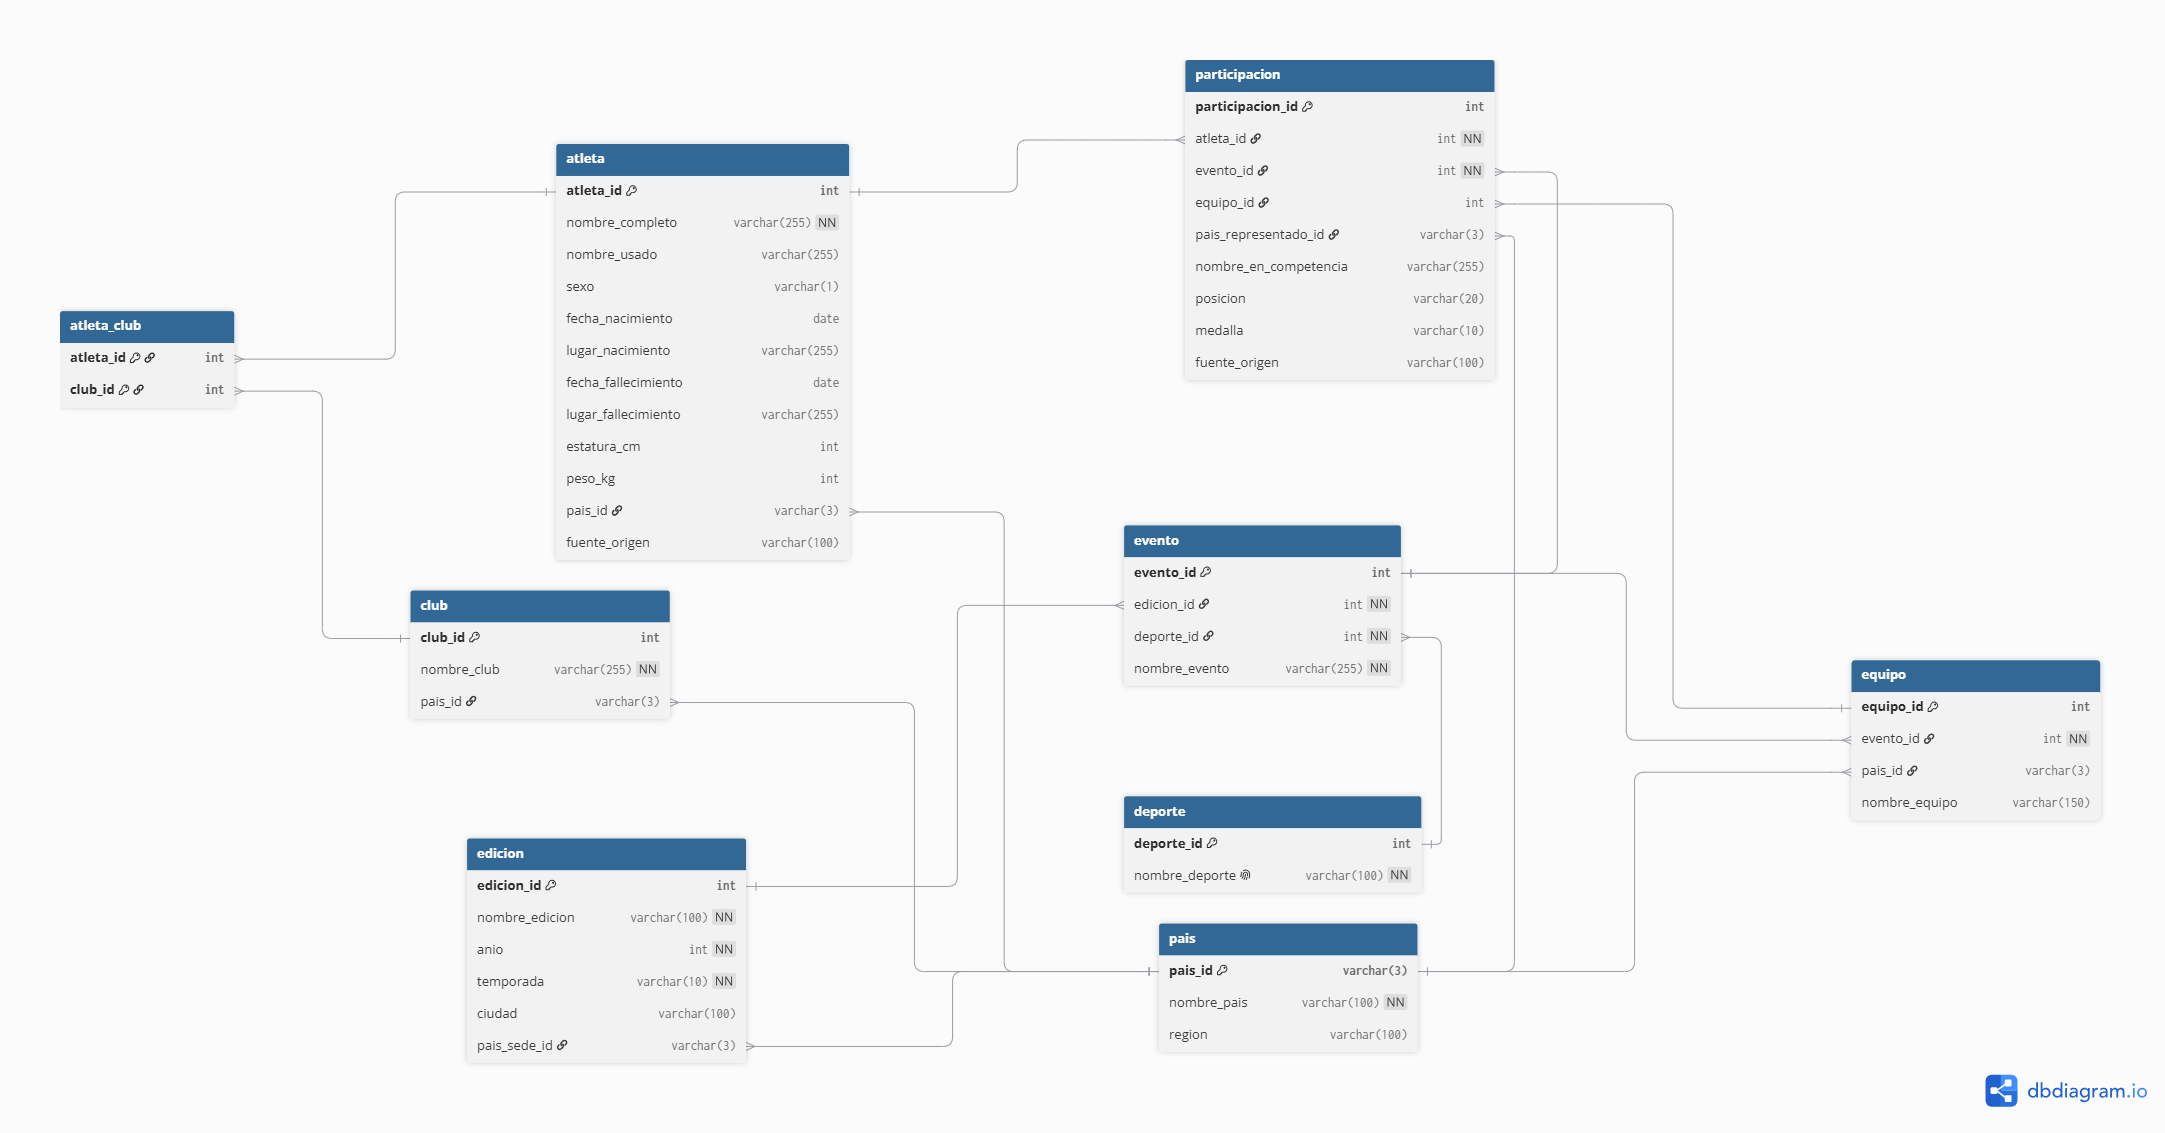
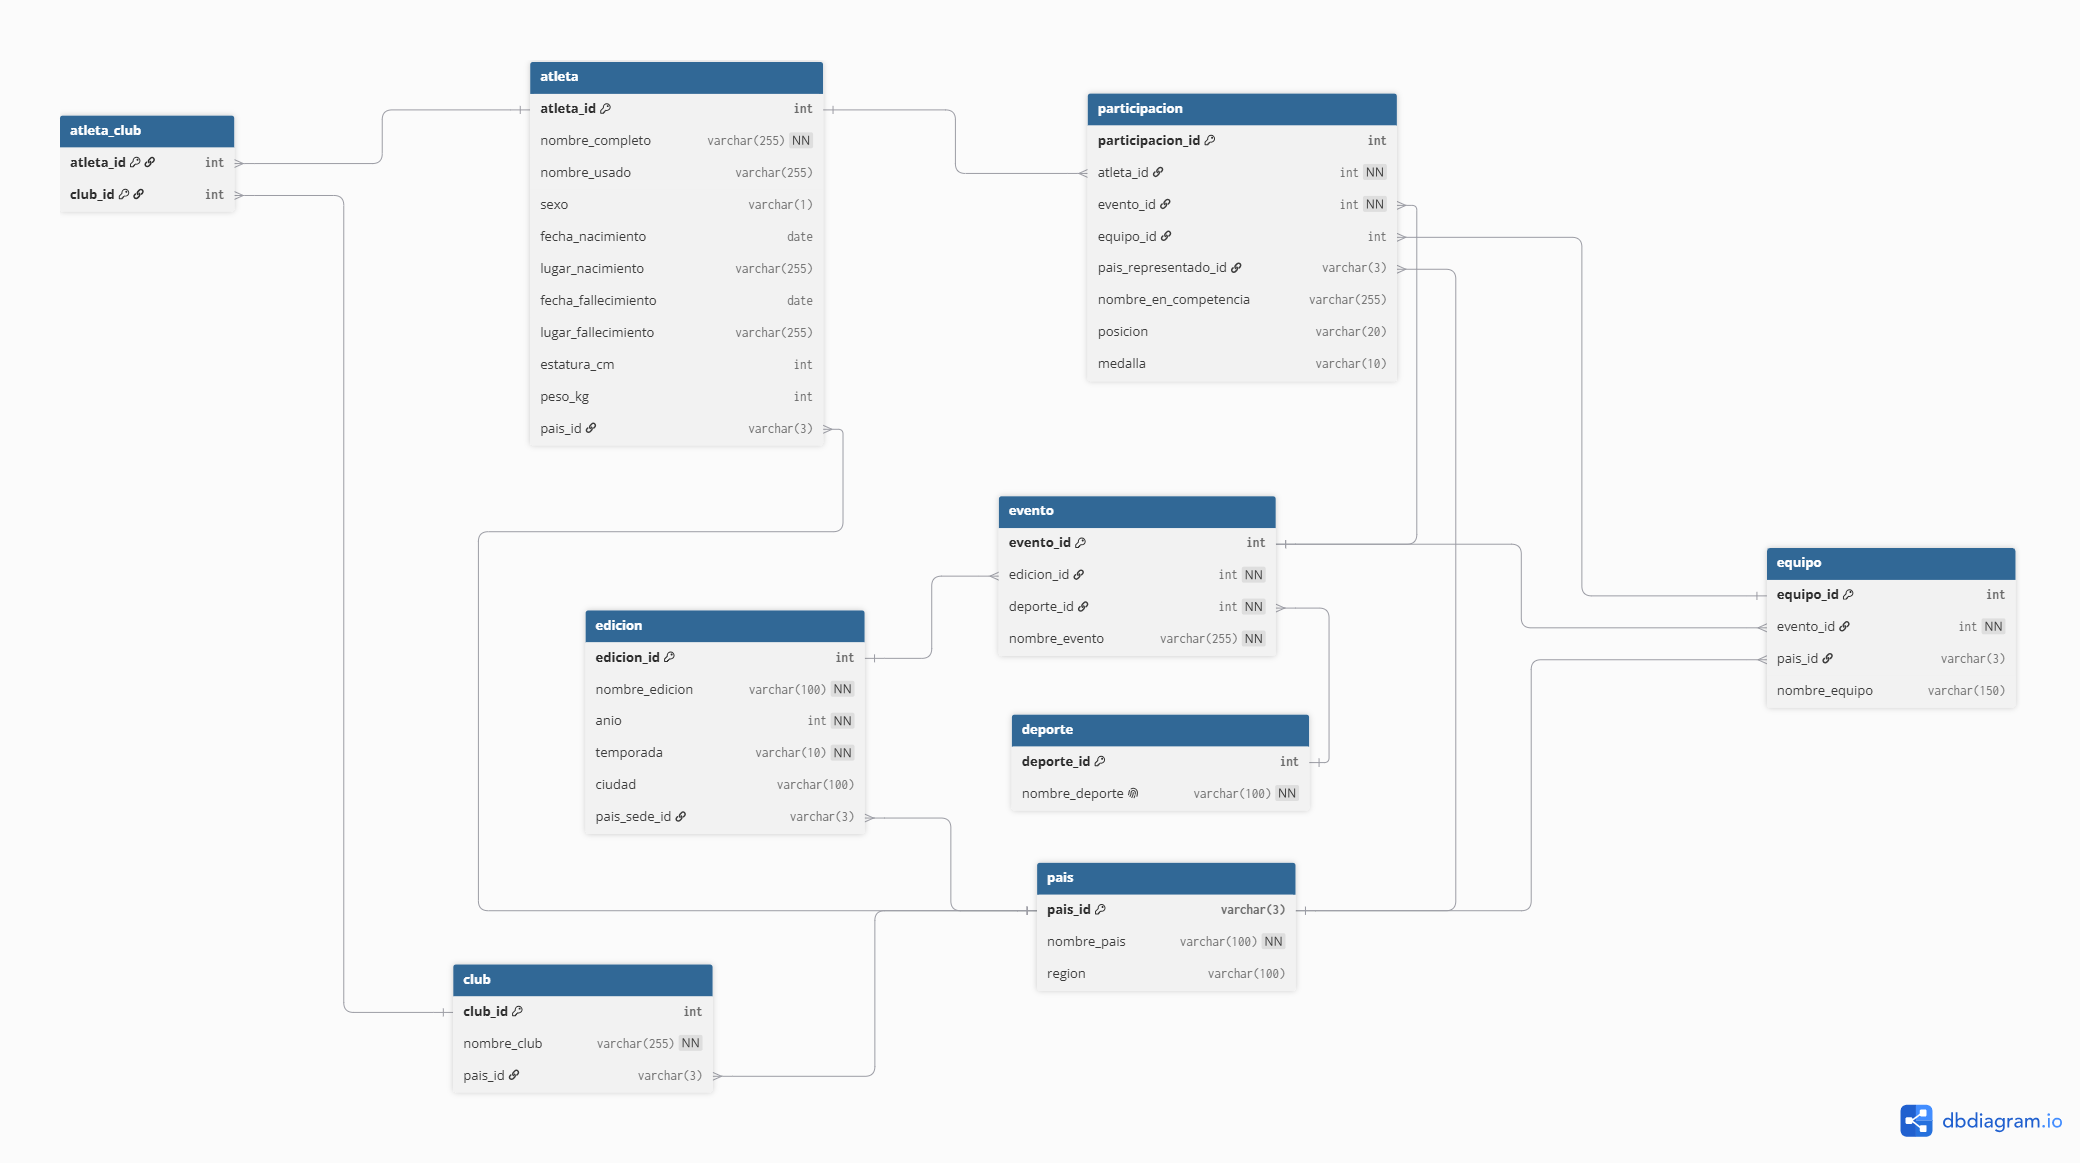
corrección del ER y exportación hacia PostgresSQL

diff --git a/informe.md b/informe.md
@@ -48,7 +48,6 @@ Un deportista individual, con sus datos biográficos.
 | estatura_cm         | int          | De Measurements en bios.csv                            | -     |
 | peso_kg             | int          | De Measurements en bios.csv                            | -     |
 | pais_id             | varchar(3)   | Nacionalidad principal declarada                       | FK    |
-| fuente_origen       | varchar(100) | CSV(s) desde donde se cargó/reconcilió el registro     | -     |
 
 ### 2.3 edicion
 Una edición específica de los Juegos Olímpicos (ej. "1924 Summer Olympics").
@@ -125,7 +124,6 @@ renglón de `results.csv` o `athlete_events.csv`).
 | nombre_en_competencia | varchar(255)  | Nombre bajo el que compitió (results.csv: As)                 | -         |
 | posicion              | varchar(20)   | Posición final, admite valores no numéricos (=17, DNS, DNF)   | -         |
 | medalla               | varchar(10)   | Oro / Plata / Bronce / nulo si no hubo medalla                | -         |
-| fuente_origen         | varchar(100)  | CSV de origen de ese registro                                 | -         |
 
 **Nota:** en `pais_representado_id` puede diferir de `atleta.pais_id` si cambió de nacionalidad deportiva, por eso se hace énfasis sobre a participación.
 
@@ -169,7 +167,6 @@ Table atleta {
   estatura_cm int
   peso_kg int
   pais_id varchar(3) [ref: > pais.pais_id]
-  fuente_origen varchar(100)
 }
 
 Table edicion {
@@ -224,7 +221,6 @@ Table participacion {
   nombre_en_competencia varchar(255)
   posicion varchar(20)
   medalla varchar(10)
-  fuente_origen varchar(100)
 }
 ```
 
@@ -244,11 +240,7 @@ Table participacion {
   nacionalidad deportiva); `atleta.pais_id` guarda la nacionalidad de
   referencia y `participacion.pais_representado_id` la usada en cada
   participación puntual, esto también resuelve el requerimiento e) de listar
-  participaciones por país.
-- **`fuente_origen` como columna de trazabilidad.** Dado que el proyecto pide
-  "apoyarse en la revisión de calidad de los datos" contra el sitio oficial,
-  conservar de qué CSV(s) proviene o fue reconciliado cada registro facilita
-  auditar duplicados y discrepancias entre fuentes.
+  participaciones por país.  
 - **`posicion` como texto, no numérico.** Los datasets incluyen valores no
   numéricos como `DNS`, `DNF`, `=17`, por lo que se modela como `varchar`.
 - **`club`/`atleta_club` es una extensión opcional** alimentada solo por
